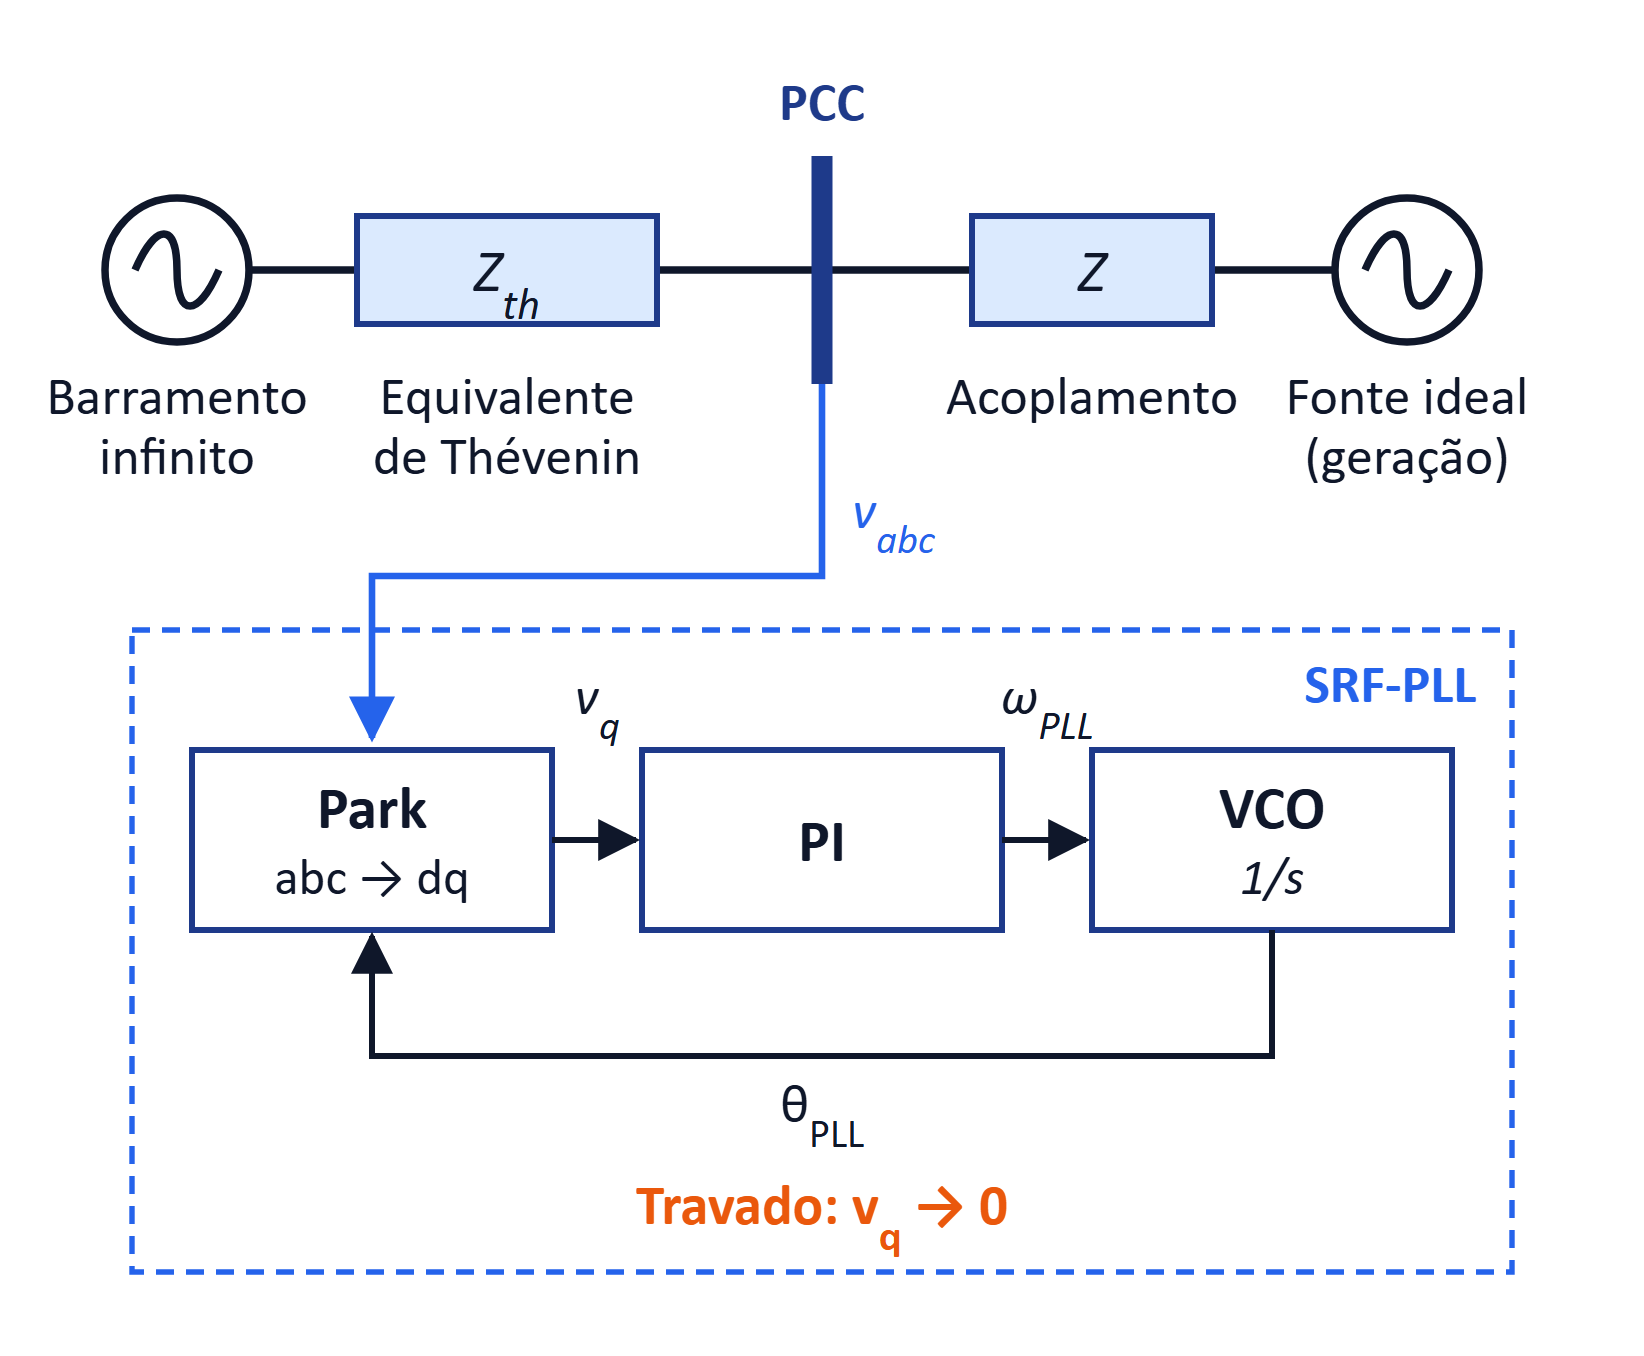
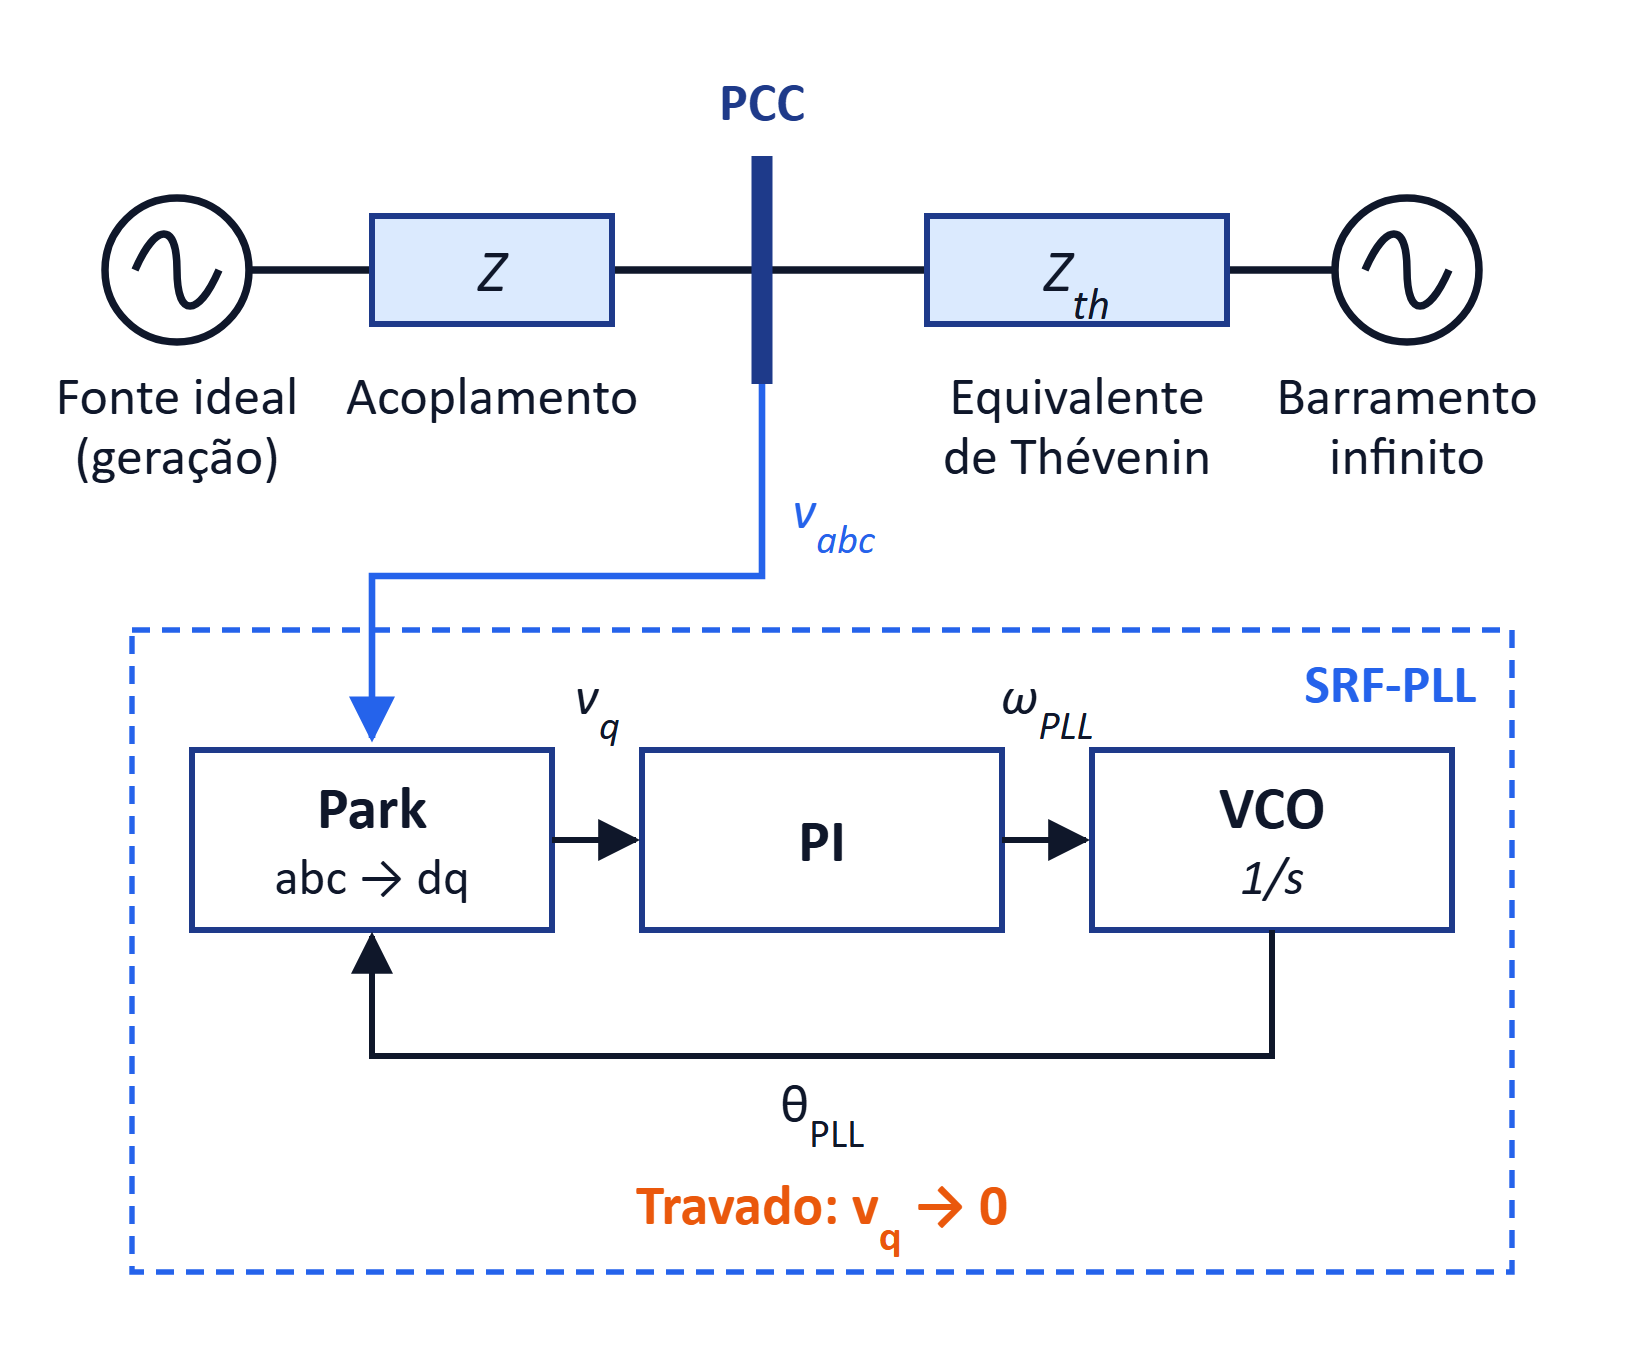
Mirror the bench figure and shorten the slide 9 title on the defense deck
The PLL bench figure now reads from generation on the left to the grid
on the right, with the coupling and Thevenin impedances following. Slide
9 gets the short title plus opening phrase pattern.

diff --git a/.claude/kb/tcc-pptx/deck_map.md b/.claude/kb/tcc-pptx/deck_map.md
@@ -27,7 +27,7 @@ aliases: [defesa-deck-map]
 | 6 | Título curto "Transformada de Park" + frase de abertura "Girando com a rede, a transformada de Park torna constantes as grandezas trifásicas" (2026-10-19; equação 3.5 em imagem na largura toda, θ em laranja; 2 cartões lado a lado embaixo; gancho "E o ângulo θ?") | Eq. (3.5), §3.1.2, fim da §3.1.3 | figura `assets/diagrams/park_abc_dq_equacao.svg`; nenhum número |
 | 7 | Título curto "Estrutura do SRF-PLL" + frase de abertura "O SRF-PLL gira o referencial dq até alinhar o eixo d com a tensão da rede" (2026-10-19; Fig. 4.3 redesenhada nas 2 primeiras colunas, com áreas tracejadas PD/PI/VCO da Fig. 3.3, `assets/diagrams/pll_control_loop_defesa.svg`, notação v; cartão "Sintonia do PI" à direita com as equações em texto Cambria Math; cartões PD, PI e VCO em linha embaixo; "Por que o travamento importa?") | Fig. 4.3, §3.5, resumo do Cap. 3 | equações da Fig. 4.3: KpPLL = 2ξωn, KiPLL = ωn², s² + KpPLL·U·s + KiPLL·U = 0 |
 | 8 | Título curto "Sistema IEEE 9 barras" + frase de abertura "A UFV assume a Barra 2 e enxerga o resto da rede como um equivalente de Thévenin" (2026-10-19) | Fig. 4.1, §4.3.1 | 192 MVA original, 100 MW; sem R_th/L_th na tela |
-| 9 | **Novo (exceção de método)**: o primeiro teste pôs o SRF-PLL entre duas fontes ideais | [[psim-modeling]] (fora do TCC) | figura `assets/diagrams/pll_bancada_duas_fontes.svg`; nenhum número |
+| 9 | **Exceção de método**: título curto "Bancada do PLL" + frase de abertura "Antes do inversor, o SRF-PLL foi testado isolado entre duas fontes ideais" (2026-10-19); figura com a geração à esquerda e a rede à direita (fonte ideal, Z, PCC, Z_th, barramento infinito) | [[psim-modeling]] (fora do TCC) | figura `assets/diagrams/pll_bancada_duas_fontes.svg`; nenhum número |
 | 10 | Na bancada, ts = 20 ms levou a Kp 460, Ki 105.820; inadequada −80% (tabela das duas sintonias) | §4.3, [[pll-loop-filter-gains]], [[cenarios-simulados]] | ωn 325,3/145,5; ξ 0,707/0,316; Kp 92, Ki 21.164 |
 | 11 | O inversor foi montado em etapas: PWM, filtro LCL e escala para 100 MW (sequência = exceção de método) | Fig. 4.2, §4.3.2 | 5 kHz, 100 MW, CC constante, Lest 30,71 mH, ωres, ξ |
 | 12 | Protocolo: falta 0,3-0,4 s, observação até 0,6 s | §4.3.4, Tab. 4.1 | erro de fase em 2° em 40/79 ms; sem contagem de cenários |

diff --git a/.claude/kb/tcc-pptx/pendencias.md b/.claude/kb/tcc-pptx/pendencias.md
@@ -68,7 +68,8 @@ aliases: [defesa-pendencias]
   Primária"); o cartão "Seguidor de rede" é paráfrase do §4.1, sem número novo.
 - Resolvido em 2026-10-19: título do slide 5 encurtado ("Fonte renovável")
   com a frase de abertura (opção C de 4, a pedido do Victor); mesmo padrão
-  nos slides 6, 7 e 8, revisão slide a slide segue no 9.
+  nos slides 6 a 9, revisão slide a slide segue no 10. Opcional (slide-validator,
+  slide 9): rótulos v_abc, v_q e ω_PLL da figura da bancada pequenos no projetor.
 - Resolvido em 2026-10-18 (noite): Fig. 4.3 redesenhada para o slide 6 a pedido do Victor (exceção à regra de diagrama idêntico ao TCC), equações num cartão à direita.
 - Resolvido em 2026-10-18 (fim de tarde): equação do slide 5 na largura toda
   com cartões embaixo; Fig. 4.3 de 5,5 para 6,2 in; subscritos reais

diff --git a/.claude/kb/tcc-pptx/historico_entregas.md b/.claude/kb/tcc-pptx/historico_entregas.md
@@ -10,6 +10,14 @@ aliases: [defesa-historico-entregas]
 > depois, backup gravado, o que o `diff_slides.py` mostrou. Mesmo formato
 > de [[tcc-historico-entregas]] (o do TCC DOCX). Mapa em [[defesa-deck-map]].
 
+## 2026-10-19: slide 9, título curto e bancada espelhada (entregue)
+
+- Opção B de 3 ("Bancada do PLL"). Pedido do Victor: geração à esquerda e
+  rede à direita, impedâncias junto (`pll_bancada_duas_fontes.svg`, linha
+  de cima espelhada, mesmo PNG 1644x1356). Staging `C:\Temp\defesa_titulo9\`:
+  MD5 fd61897d… → f59e76279ebd1d783e3cd4ccf9db8052, backup `_20261019_220257`.
+  diff: só o slide 9; check_pptx 0 falhas; slide-validator sem bloqueio.
+
 ## 2026-10-19: título curto e frase de abertura nos slides 6, 7 e 8 (entregue)
 
 - Revisão slide a slide pedida pelo Victor, padrão do slide 5 por
